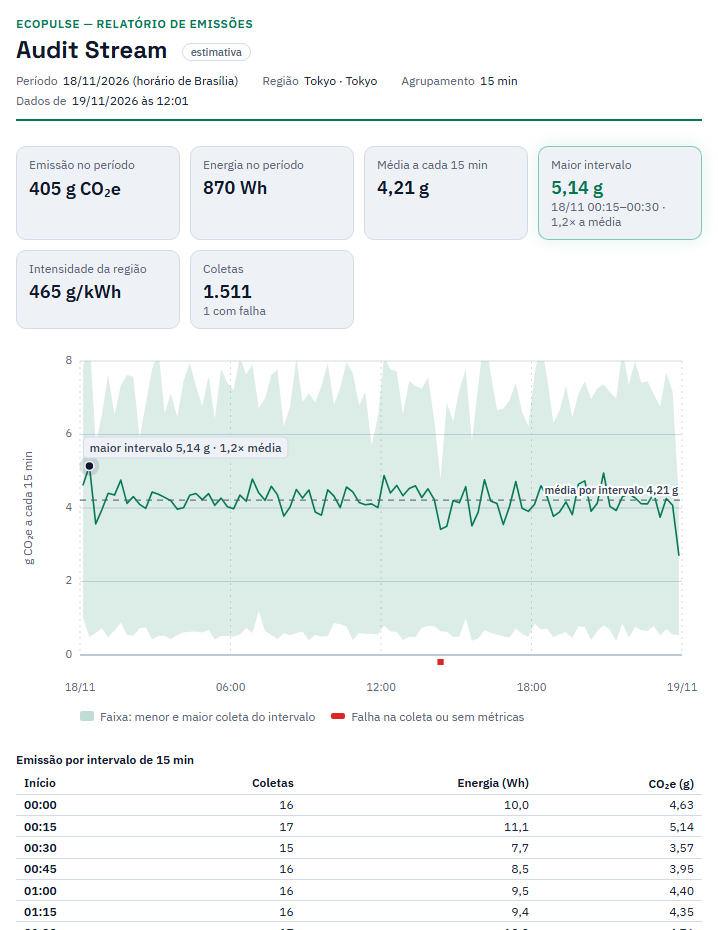
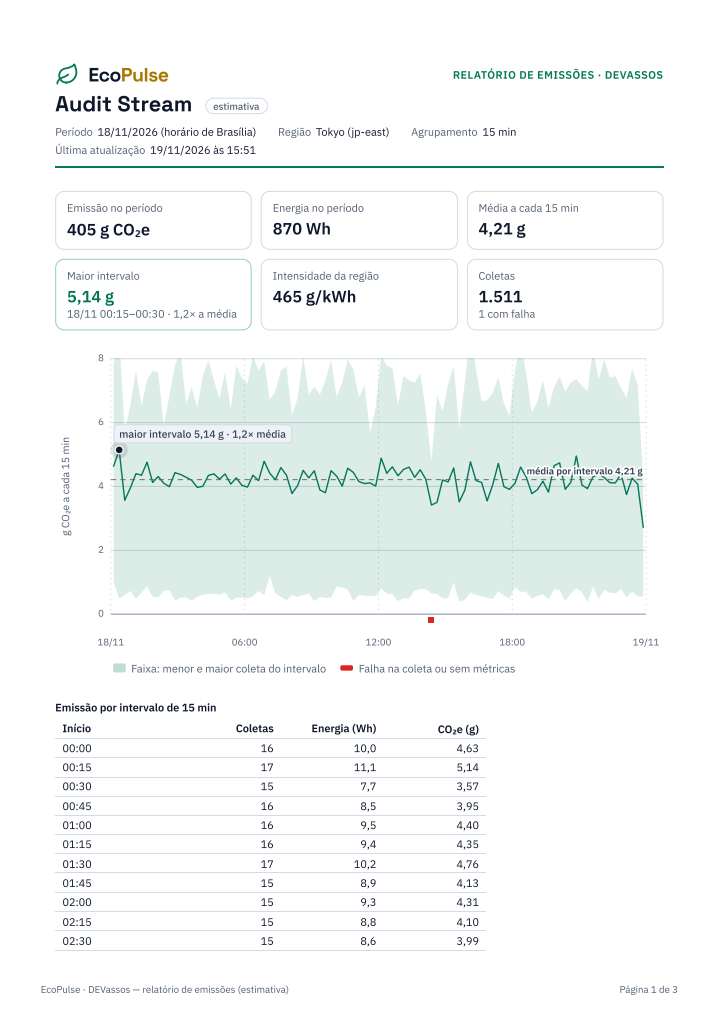
docs(docs): atualiza o relatório impresso no README (#13)

diff --git a/frontend/README.md b/frontend/README.md
@@ -178,10 +178,10 @@ A API devolve energia em kWh e CO₂e em gramas. A tela escolhe a unidade em `sr
 
 ## Exportação do período (US13 #54, #24)
 
-- No card do serviço da página **Emissões**, **Baixar CSV** e **Baixar PDF** valem para o serviço e o período escolhidos no filtro. Tudo acontece no navegador, sem rota nova.
+- No card do serviço da página **Emissões**, **Baixar CSV** e **Imprimir / PDF** valem para o serviço e o período escolhidos no filtro. Tudo acontece no navegador, sem rota nova.
 - **CSV:** todas as coletas do serviço no período, uma por linha, da mais antiga para a mais recente, com as colunas `coletado_em` (horário de Brasília com o fuso, `2026-11-19T08:30:12-03:00`), `status`, `cpu_percent`, `memoria_gb`, `disco_gb`, `rede_gb`, `intervalo_s`, `energia_kwh`, `co2e_g`, `fator_gco2e_kwh`, `calculo` e `erro`. UTF-8 com BOM, separador `,` e ponto decimal, o padrão das ferramentas de BI, como pede a #24 (decisão do PO na #54; `CSV_FORMAT`, em `src/utils/csv.ts`). No Excel em português, abrir pelo menu **Dados → De Texto/CSV**, que reconhece a vírgula como separador; a linha `sep=,` não foi usada porque, com ela, o Excel ignora o BOM e os acentos saem errados. Valor ausente fica vazio, nunca 0, e os números saem com todas as casas da API, para a soma bater com os cards. Texto que começa com `=`, `+`, `-` ou `@` ganha um apóstrofo, para a planilha não o executar como fórmula. Nome: `ecopulse-coletas-<serviço>-<de>-a-<ate>.csv`.
-- As coletas vêm de `GET /api/collections` em partes de 500 (`src/services/export.service.ts`), cada uma começando 1 ms antes da mais antiga recebida, como na paginação do gráfico (#256). O botão mostra "Baixando… N coletas" e **Cancelar**; uma parte fora do contrato ou uma falha de rede recusa a exportação inteira, com a mensagem ao lado dos botões, e nenhum arquivo pela metade é entregue. Período sem coletas avisa em vez de baixar um arquivo vazio. No modo demonstração, sai com as coletas ilustrativas.
-- **PDF (#13):** abre a janela de impressão do navegador, onde dá para escolher "Salvar como PDF" (o mesmo vale para Ctrl+P na página). Uma folha `@media print` (`src/styles/print.css`) monta um relatório A4 retrato: cabeçalho "EcoPulse — Relatório de emissões" com o serviço, a etiqueta "estimativa", o período, a região, o agrupamento e a hora dos dados (`PrintHeader`); os KPIs e o gráfico do card; e a tabela por intervalo do gráfico, com início, coletas, energia e CO₂e na escala da maior linha e o total no fim (`PrintTable`, conta em `src/utils/print-report.ts`). O gráfico é redesenhado na largura da folha no `beforeprint` (`PRINT_CHART_WIDTH`, com `flushSync`, em `EmissionsChart`), porque o `ResizeObserver` não roda durante a impressão. O cabeçalho da tabela se repete em cada página, nenhuma linha quebra entre duas páginas, e o rodapé traz a nota do método e "Página N de M". No agrupamento "Cada coleta" a tabela daria milhares de linhas: o relatório aponta o CSV. Menu, filtros, botões, selo de atualização e rodapé da tela somem no papel. O relatório sai sempre no tema claro: `usePrintLightTheme` troca o tema antes da impressão e devolve o da pessoa depois, sem gravar.
+- As coletas vêm de `GET /api/collections` em partes de 500 (`src/services/export.service.ts`), cada uma começando 1 ms antes da mais antiga recebida, como na paginação do gráfico (#256). Ao lado do botão aparece "Baixando… N de M coletas" (M é o card **Coletas**), e o próprio botão vira **Cancelar**, com o foco do teclado nele; uma parte fora do contrato ou uma falha de rede recusa a exportação inteira, com a mensagem ao lado dos botões, e nenhum arquivo pela metade é entregue. Período sem coletas avisa em vez de baixar um arquivo vazio. No modo demonstração, sai com as coletas ilustrativas.
+- **PDF (#13):** **Imprimir / PDF** abre a janela de impressão do navegador, onde dá para escolher "Salvar como PDF" (o mesmo vale para Ctrl+P na página). Uma folha `@media print` (`src/styles/print.css`) monta um relatório A4 retrato: cabeçalho com o logo, "Relatório de emissões · DEVassos", o serviço, a etiqueta "estimativa", o período, a região ("Tokyo (jp-east)"), o agrupamento e a última atualização (`PrintHeader`); os KPIs, em duas linhas de 3 e sem o fundo da tela, e o gráfico do card; e a tabela por intervalo do gráfico, com início, coletas, energia e CO₂e na escala da maior linha e o total no fim (`PrintTable`, conta em `src/utils/print-report.ts`). Os trechos sem coleta (os mesmos `missingSpans` do gráfico e do card **Coletas**) entram na tabela como linhas em cinza, por exemplo "03:30–10:15 · sem coleta (6 h 45 min)", para quem lê só o papel ver onde a coleta parou. O gráfico é redesenhado na largura da folha no `beforeprint` (`PRINT_CHART_WIDTH`, com `flushSync`, em `EmissionsChart`), porque o `ResizeObserver` não roda durante a impressão. O cabeçalho da tabela se repete em cada página, nenhuma linha quebra entre duas páginas, e o rodapé traz a nota do método, "EcoPulse · DEVassos" e "Página N de M". No agrupamento "Cada coleta" a tabela daria milhares de linhas: o relatório aponta o CSV. Menu, filtros, botões, selo de atualização e rodapé da tela somem no papel. O `print.css` entra no CSS do app inteiro, então as regras valem só com a classe `has-print-report`, que o `usePrintReport` põe no `<html>` enquanto a página Emissões está aberta, e a folha A4 com rodapé é uma página nomeada (`@page relatorio`): nas outras páginas, o Ctrl+P continua como antes. O relatório sai sempre no tema claro: o mesmo hook troca o tema antes da impressão e devolve o da pessoa depois, sem gravar.
 
 ## Seletor de período (#273)
 
@@ -382,5 +382,5 @@ npm run mock        # backend falso em http://localhost:3000 (desenvolvimento)
 87. Clicar em **Fraud Detector** → a janela de detalhes traz **Energia na última leitura** ("1,00 Wh") e **CO₂e na última leitura** ("379 mg") ao lado da CPU: a leitura de ~30 s saiu da tabela e fica aqui (#330). Com 390 px de largura → sob o nome de cada serviço aparece o CO₂e das 24 h ("294 g CO₂e nas 24 h"), não a última leitura, e as colunas das 24 h ficam a uma rolagem de distância.
 100. Com o backend real (`docker compose up --build`) e a sessão aberta, abrir **Emissões** com um dia inteiro já passado (ex.: ontem) e clicar em **Baixar CSV** → baixa `ecopulse-coletas-<serviço>-<dia>-a-<dia>.csv`, e ao lado aparece "CSV com N coletas baixado.", com N igual ao card **Coletas**. Abrir no Excel por **Dados → De Texto/CSV** (ou numa ferramenta de BI) → uma coluna por campo, com acentos certos e ponto decimal; somar a coluna `co2e_g` → igual ao card **Emissão no período**, com diferença só de arredondamento (em 18/11/2026, Audit Stream: 1.511 linhas, 404,54 g e 0,86997 kWh, contra 1.511, 405 g e 870 Wh nos cards). Coletas com falha têm as medidas vazias e o motivo em `erro`.
 101. No DevTools, em Network, limitar a velocidade (Slow 4G) e clicar em **Baixar CSV** → "Baixando… 500 coletas" e **Cancelar**; cancelar → nenhum arquivo é baixado. Com o backend parado (`docker compose stop backend`), clicar em **Baixar CSV** → "Não foi possível baixar o CSV: …" ao lado dos botões, sem arquivo.
-102. Clicar em **Baixar PDF** → abre a janela de impressão; a prévia mostra uma página A4 com "EcoPulse — Relatório de emissões", o serviço, o período, a região, o agrupamento e a hora dos dados, os KPIs, o gráfico e a tabela "Emissão por intervalo de 15 min" (num dia inteiro, 96 linhas e o total, em 3 páginas, com o cabeçalho da tabela repetido em cada uma, o total só no fim e "Página N de 3" no rodapé). O gráfico sai inteiro, na largura da folha. Sem menu, filtros nem botões. O total da tabela é igual aos cards (em 18/11/2026, Audit Stream: 1.511 coletas, 870,0 Wh e 404,54 g). Salvar como PDF → o texto continua selecionável.
-103. Com o tema escuro ligado, clicar em **Baixar PDF** → a prévia sai no tema claro; fechar a janela → a tela volta ao tema escuro. Escolher **Cada coleta** no agrupamento e imprimir → no lugar da tabela, "a lista de cada coleta do período está no CSV".
+102. Clicar em **Imprimir / PDF** → abre a janela de impressão; a prévia mostra uma página A4 com o logo, "Relatório de emissões · DEVassos", o serviço, o período, a região, o agrupamento e a última atualização, os KPIs em duas linhas de 3, o gráfico e a tabela "Emissão por intervalo de 15 min" (num dia inteiro, 96 linhas e o total, em 3 páginas, com o cabeçalho da tabela repetido em cada uma, o total só no fim, "EcoPulse · DEVassos" e "Página N de 3" no rodapé). Num dia com a coleta parada, a tabela mostra o trecho numa linha cinza "… · sem coleta (…)", com a mesma duração do card **Coletas**. O gráfico sai inteiro, na largura da folha. Sem menu, filtros nem botões. O total da tabela é igual aos cards (em 18/11/2026, Audit Stream: 1.511 coletas, 870,0 Wh e 404,54 g). Salvar como PDF → o texto continua selecionável.
+103. Com o tema escuro ligado, clicar em **Imprimir / PDF** → a prévia sai no tema claro; fechar a janela → a tela volta ao tema escuro. Escolher **Cada coleta** no agrupamento e imprimir → no lugar da tabela, "a lista de cada coleta do período está no CSV". No **Dashboard**, Ctrl+P → a prévia continua com o menu e sem o rodapé do relatório.

diff --git a/README.md b/README.md
@@ -152,9 +152,9 @@ O desenvolvimento acontece na branch `develop`; cada funcionalidade entra nesta 
 
   _Dashboard com o backend real (`docker compose`) em 17/11/2026, 23h48, em 1440 px, com cerca de 13 h de coletas: Ashburn (`us-east`) emitiu mais (150 g) com dois serviços e a intensidade de 378 g CO₂e/kWh; Sao Paulo (`br-sudeste`, 85 g/kWh) tem o selo **Rede limpa**. O crédito das imagens da EOX fica no canto do mapa (#351)._
 
-- **RNF05 — Exportação do período em CSV e PDF (US13 #54; #24, PR #386; #13, PR #387):** na página Emissões, **Baixar CSV** entrega todas as coletas do serviço no período escolhido, uma por linha (horário de Brasília, status, CPU, memória, disco, rede, intervalo, energia, CO₂e, fator da região, cálculo e erro), em UTF-8, com vírgula como separador e ponto decimal, o padrão das ferramentas de BI (no Excel em português, pelo menu Dados → De Texto/CSV); valor ausente fica vazio, nunca 0, e a soma das colunas bate com os cards. As coletas vêm em partes de `GET /api/collections`, com progresso e **Cancelar**, e uma falha no meio não entrega arquivo pela metade. **Baixar PDF** abre a impressão do navegador com um relatório A4 no tema claro: cabeçalho com serviço, período, região e agrupamento, os KPIs, o gráfico e a tabela por intervalo com o total, repetindo o cabeçalho da tabela em cada página ([detalhes](frontend/README.md#exportação-do-período-us13-54-24)).
+- **RNF05 — Exportação do período em CSV e PDF (US13 #54; #24, PR #386; #13, PR #387):** na página Emissões, **Baixar CSV** entrega todas as coletas do serviço no período escolhido, uma por linha (horário de Brasília, status, CPU, memória, disco, rede, intervalo, energia, CO₂e, fator da região, cálculo e erro), em UTF-8, com vírgula como separador e ponto decimal, o padrão das ferramentas de BI (no Excel em português, pelo menu Dados → De Texto/CSV); valor ausente fica vazio, nunca 0, e a soma das colunas bate com os cards. As coletas vêm em partes de `GET /api/collections`, com progresso e **Cancelar**, e uma falha no meio não entrega arquivo pela metade. **Imprimir / PDF** abre a impressão do navegador com um relatório A4 no tema claro: cabeçalho com o logo, DEVassos, serviço, período, região e agrupamento, os KPIs, o gráfico e a tabela por intervalo com o total e os trechos sem coleta, repetindo o cabeçalho da tabela em cada página ([detalhes](frontend/README.md#exportação-do-período-us13-54-24)).
 
-  ![Relatório de emissões do período na prévia de impressão](docs/img/sprint-3-relatorio-pdf.png)
+  ![Primeira página do relatório de emissões em PDF](docs/img/sprint-3-relatorio-pdf.png)
 
   _Prévia de impressão com o backend real (`docker compose up --build`) em 19/11/2026, 12h01, em largura A4: Audit Stream (`jp-east`) em 18/11, com 1.511 coletas, 405 g de CO₂e e 870 Wh; a tabela segue com 96 intervalos de 15 min nas páginas seguintes, com o total (404,54 g) no fim. O CSV do mesmo dia tem 1.511 linhas, e a soma da coluna `co2e_g` dá 404,54 g._
 
